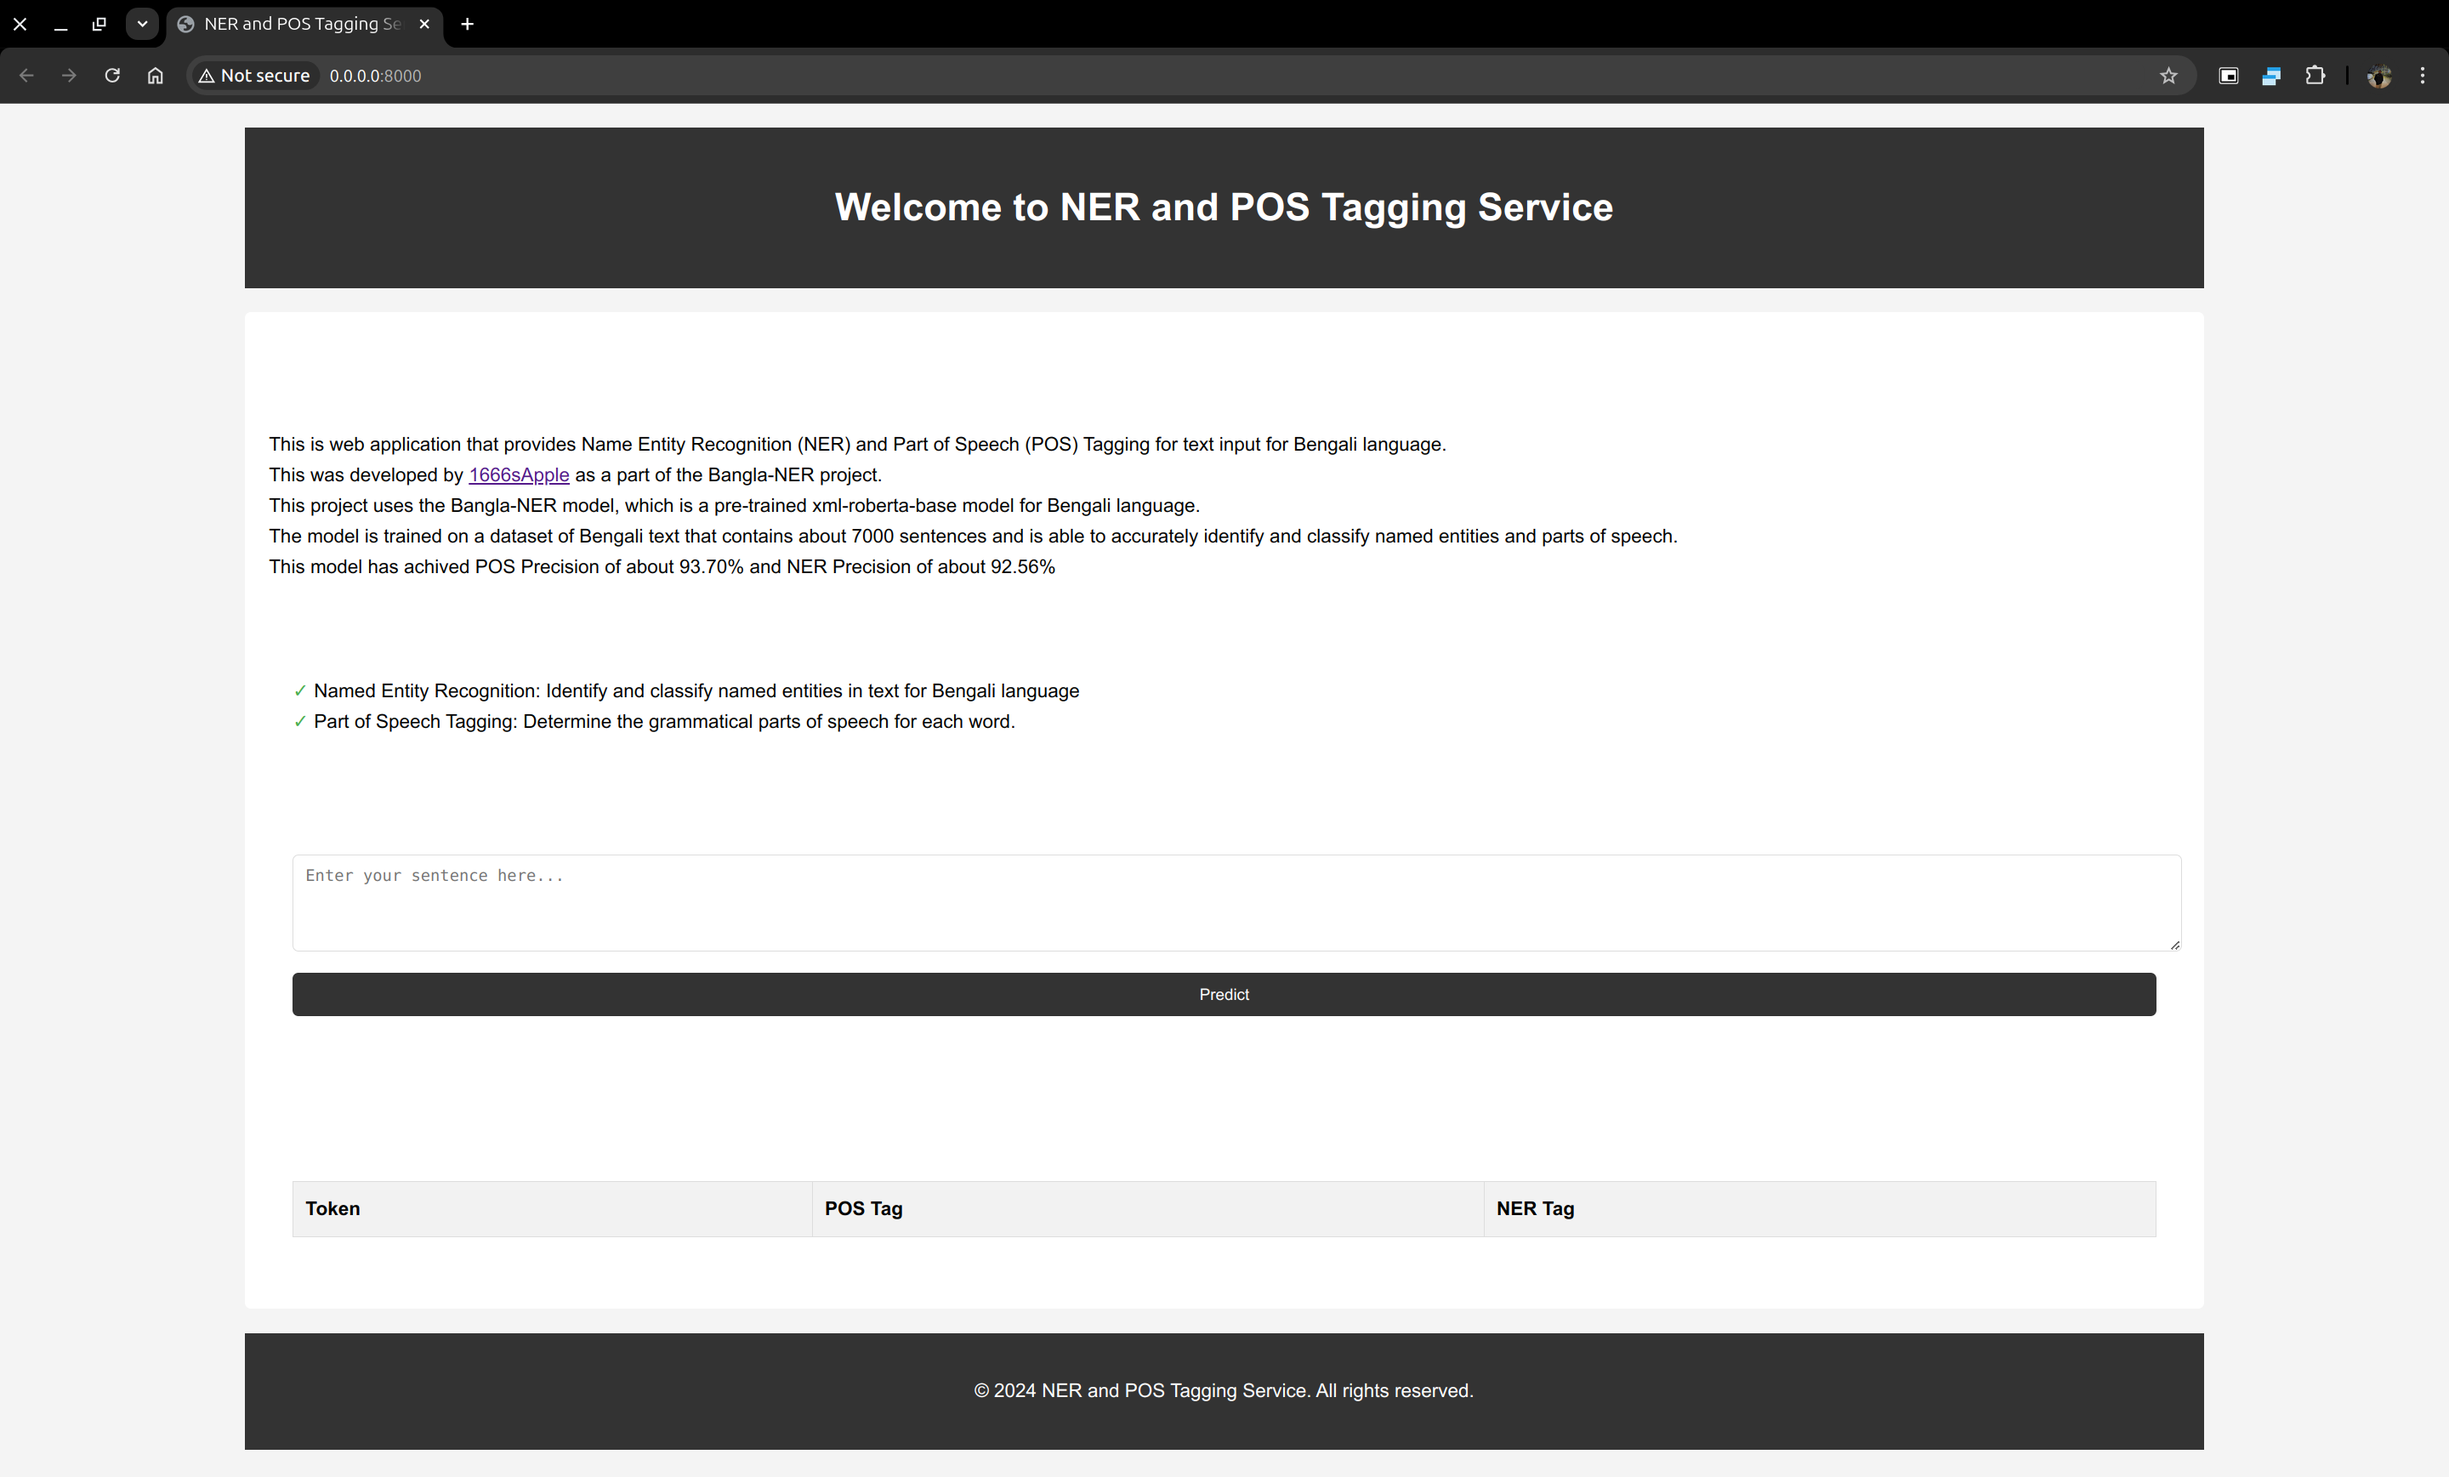
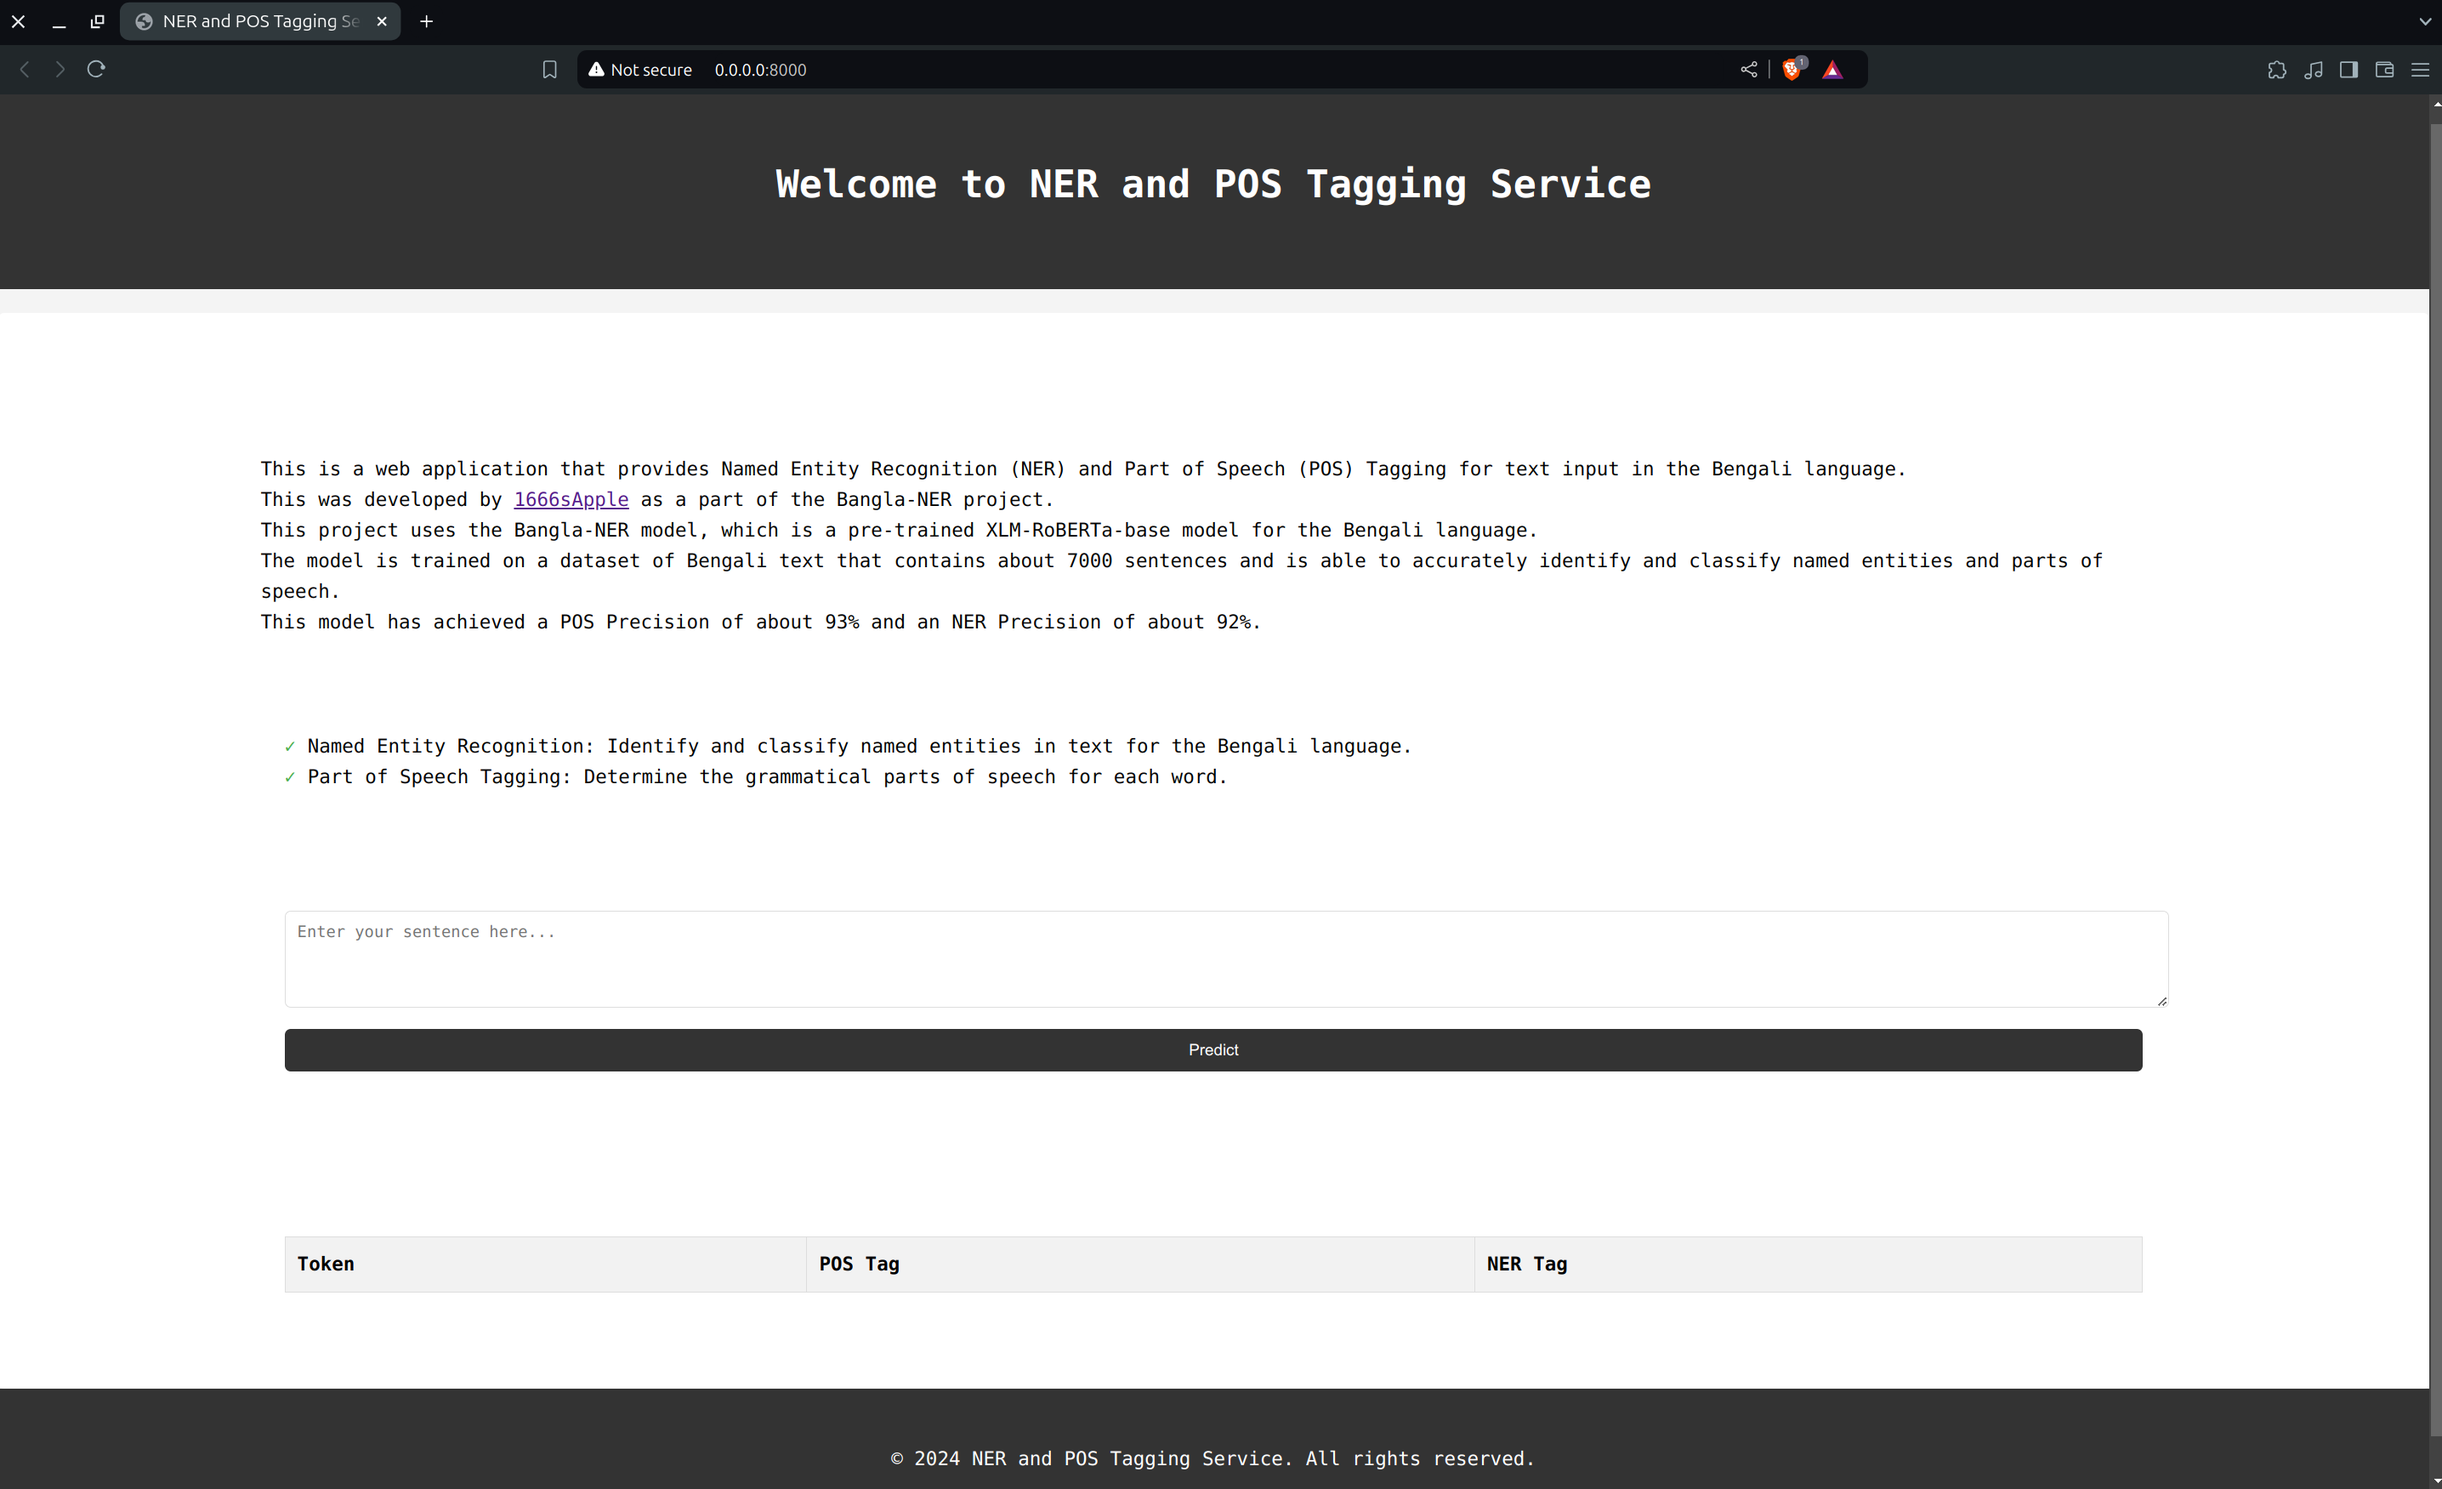
Update FrontEnd

diff --git a/app/templates/index.html b/app/templates/index.html
@@ -7,27 +7,29 @@
     <link rel="stylesheet" href="{{ url_for('static', path='/styles.css') }}" />
   </head>
   <body>
-    <div class="container">
-      <header>
+    <header>
+      <div class="container">
         <h1>Welcome to NER and POS Tagging Service</h1>
-      </header>
-      <main>
+      </div>
+    </header>
+    <main>
+      <div class="container">
         <section>
           <h2>About Our Service</h2>
           <p>
-            This is web application that provides Name Entity Recognition (NER)
-            and Part of Speech (POS) Tagging for text input for Bengali
+            This is a web application that provides Named Entity Recognition (NER)
+            and Part of Speech (POS) Tagging for text input in the Bengali
             language. <br />
             This was developed by
             <a href="https://github.com/1666sApple">1666sApple</a> as a part of
             the Bangla-NER project. <br />
             This project uses the Bangla-NER model, which is a pre-trained
-            xml-roberta-base model for Bengali language. <br />
+            XLM-RoBERTa-base model for the Bengali language. <br />
             The model is trained on a dataset of Bengali text that contains
             about 7000 sentences and is able to accurately identify and classify
             named entities and parts of speech. <br />
-            This model has achived POS Precision of about 93.70% and NER
-            Precision of about 92.56%
+            This model has achieved a POS Precision of about 93% and an NER Precision
+            of about 92%.
           </p>
         </section>
         <section>
@@ -35,7 +37,7 @@
           <ul>
             <li>
               Named Entity Recognition: Identify and classify named entities in
-              text for Bengali language
+              text for the Bengali language.
             </li>
             <li>
               Part of Speech Tagging: Determine the grammatical parts of speech
@@ -67,11 +69,13 @@
             </table>
           </div>
         </section>
-      </main>
-      <footer>
+      </div>
+    </main>
+    <footer>
+      <div class="container">
         <p>&copy; 2024 NER and POS Tagging Service. All rights reserved.</p>
-      </footer>
-    </div>
+      </div>
+    </footer>
     <script src="{{ url_for('static', path='/script.js') }}"></script>
   </body>
 </html>

diff --git a/app/templates/predict.html b/app/templates/predict.html
@@ -7,30 +7,41 @@
     <link rel="stylesheet" href="{{ url_for('static', path='/styles.css') }}" />
   </head>
   <body>
-    <div class="container">
-      <h1>NER and POS Prediction</h1>
-      <form id="predictionForm">
-        <textarea
-          id="inputSentence"
-          rows="4"
-          placeholder="Enter your sentence here..."
-        ></textarea>
-        <button type="submit">Predict</button>
-      </form>
-      <div id="result">
-        <h2>Prediction Result:</h2>
-        <table id="resultTable">
-          <thead>
-            <tr>
-              <th>Token</th>
-              <th>POS Tag</th>
-              <th>NER Tag</th>
-            </tr>
-          </thead>
-          <tbody></tbody>
-        </table>
+    <header>
+      <div class="container">
+        <h1>NER and POS Prediction</h1>
       </div>
-    </div>
+    </header>
+    <main>
+      <div class="container">
+        <form id="predictionForm">
+          <textarea
+            id="inputSentence"
+            rows="4"
+            placeholder="Enter your sentence here..."
+          ></textarea>
+          <button type="submit">Predict</button>
+        </form>
+        <div id="result">
+          <h2>Prediction Result:</h2>
+          <table id="resultTable">
+            <thead>
+              <tr>
+                <th>Token</th>
+                <th>POS Tag</th>
+                <th>NER Tag</th>
+              </tr>
+            </thead>
+            <tbody></tbody>
+          </table>
+        </div>
+      </div>
+    </main>
+    <footer>
+      <div class="container">
+        <p>&copy; 2024 NER and POS Tagging Service. All rights reserved.</p>
+      </div>
+    </footer>
     <script src="{{ url_for('static', path='/script.js') }}"></script>
   </body>
 </html>

diff --git a/app/static/styles.css b/app/static/styles.css
@@ -1,9 +1,18 @@
 body {
-  font-family: Arial, sans-serif;
+  font-family: "Droid Sans Mono", "monospace", monospace;
   line-height: 1.6;
   margin: 0;
   padding: 0;
   background-color: #f4f4f4;
+}
+
+header,
+footer {
+  width: 100%;
+  background: #333;
+  color: #fff;
+  padding: 20px 0;
+  text-align: center;
 }
 
 .container {
@@ -11,13 +20,6 @@ body {
   margin: auto;
   overflow: hidden;
   padding: 20px;
-}
-
-header {
-  background: #333;
-  color: #fff;
-  padding: 20px 0;
-  text-align: center;
 }
 
 h1,
@@ -62,8 +64,7 @@ li:before {
 
 footer {
   text-align: center;
-  padding: 5px;
-  margin-top: 5px;
+  padding: 10px 0;
   background: #333;
   color: #fff;
 }
